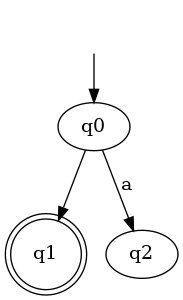
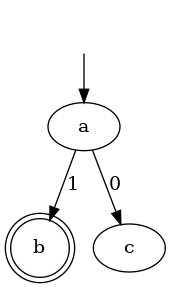
finsihed with fa

Changed region(s): [[0.0, 0.1562, 0.9942, 1.0], [0.1754, 0.8125, 0.2924, 0.9062]]

diff --git a/backupgui.py b/backupgui.py
@@ -26,21 +26,35 @@ def onClick():
     for row in entries:
         for entry in row:
             if not entry.get():
-                error_label.configure(text="Form must be filled")
+                error_label.configure(text="All fields must be filled.")
                 all_filled = False
                 break
         if not all_filled:
             break
-    
-    if all_filled:
-        error_label.configure(text="")
-        print("Start Data:", starter[0].get())
-        print("Final: ", starter[1].get())
-        for row in entries:
-            print(f"State: {row[0].get()}, TO State: {row[1].get()}, Symbol: {row[2].get()}")
 
-        # Generate or update the image (assuming this is your function to generate/update the image)
+    if all_filled:
+        fa = FiniteAutomaton()
+        error_label.configure(text="")
+        
+        start_state = starter[0].get()
+        accept_state = starter[1].get()
+        print("Start State:", start_state)
+        print("Final State:", accept_state)
+        
+        fa.add_state(start_state, start=True)
+        fa.add_state(accept_state, accept=True)
+        
+        for row in entries:
+            from_state = row[0].get()
+            to_state = row[1].get()
+            symbol = row[2].get()
+            print(f"State: {from_state}, TO State: {to_state}, Symbol: {symbol}")
+            fa.add_transition(from_state, to_state, symbol)
+
+        # Generate or update the image
+        fa.to_graph("nfa.png")
         update_image()
+
 
 
 def update_image():
